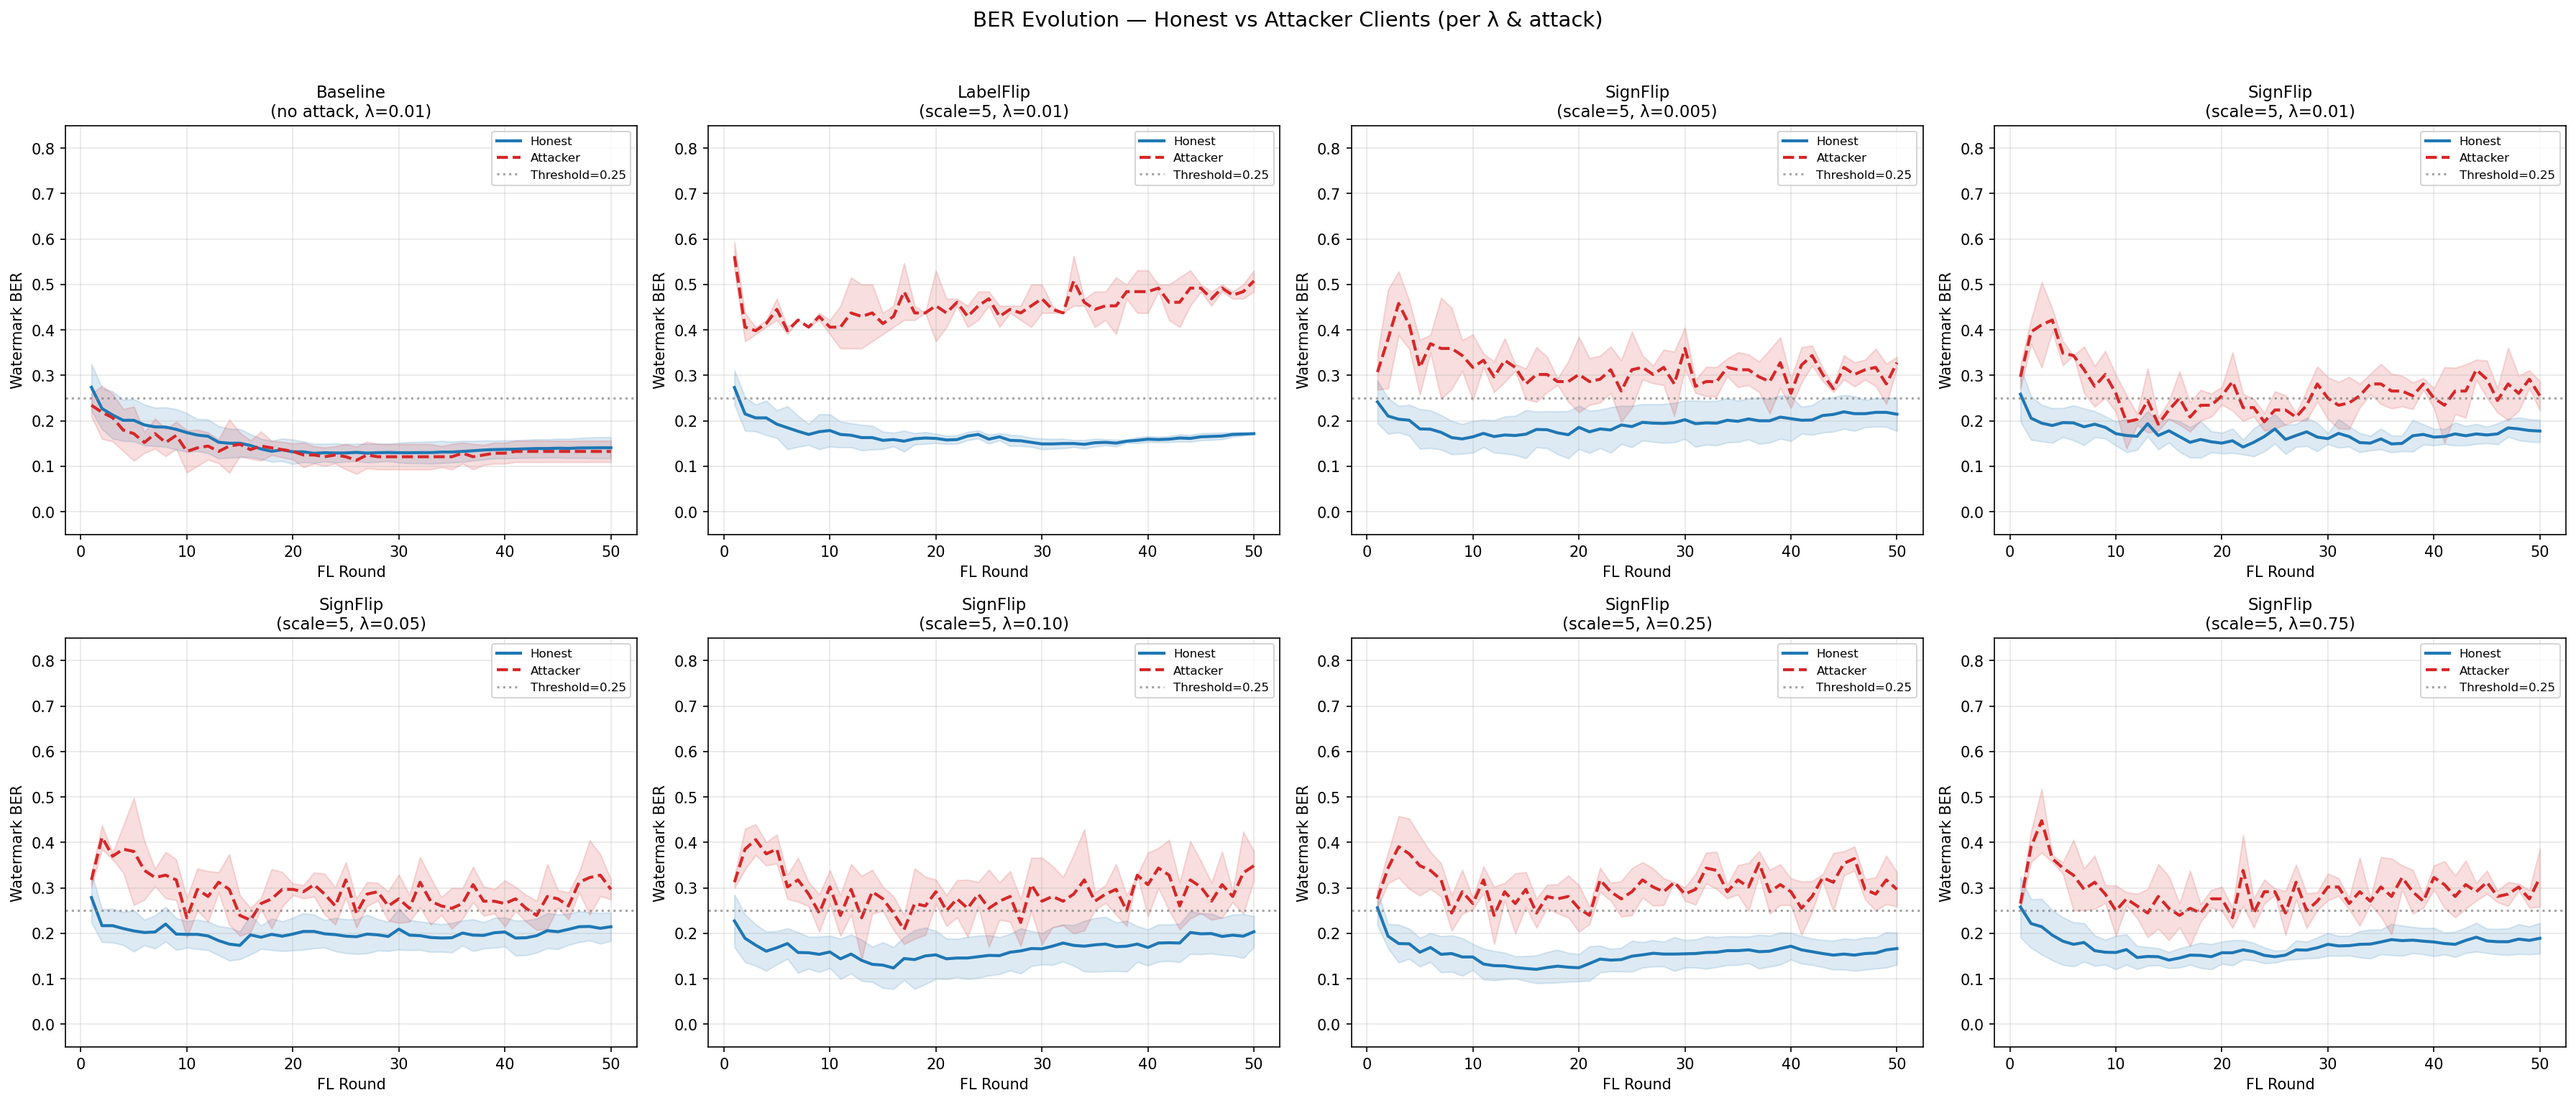
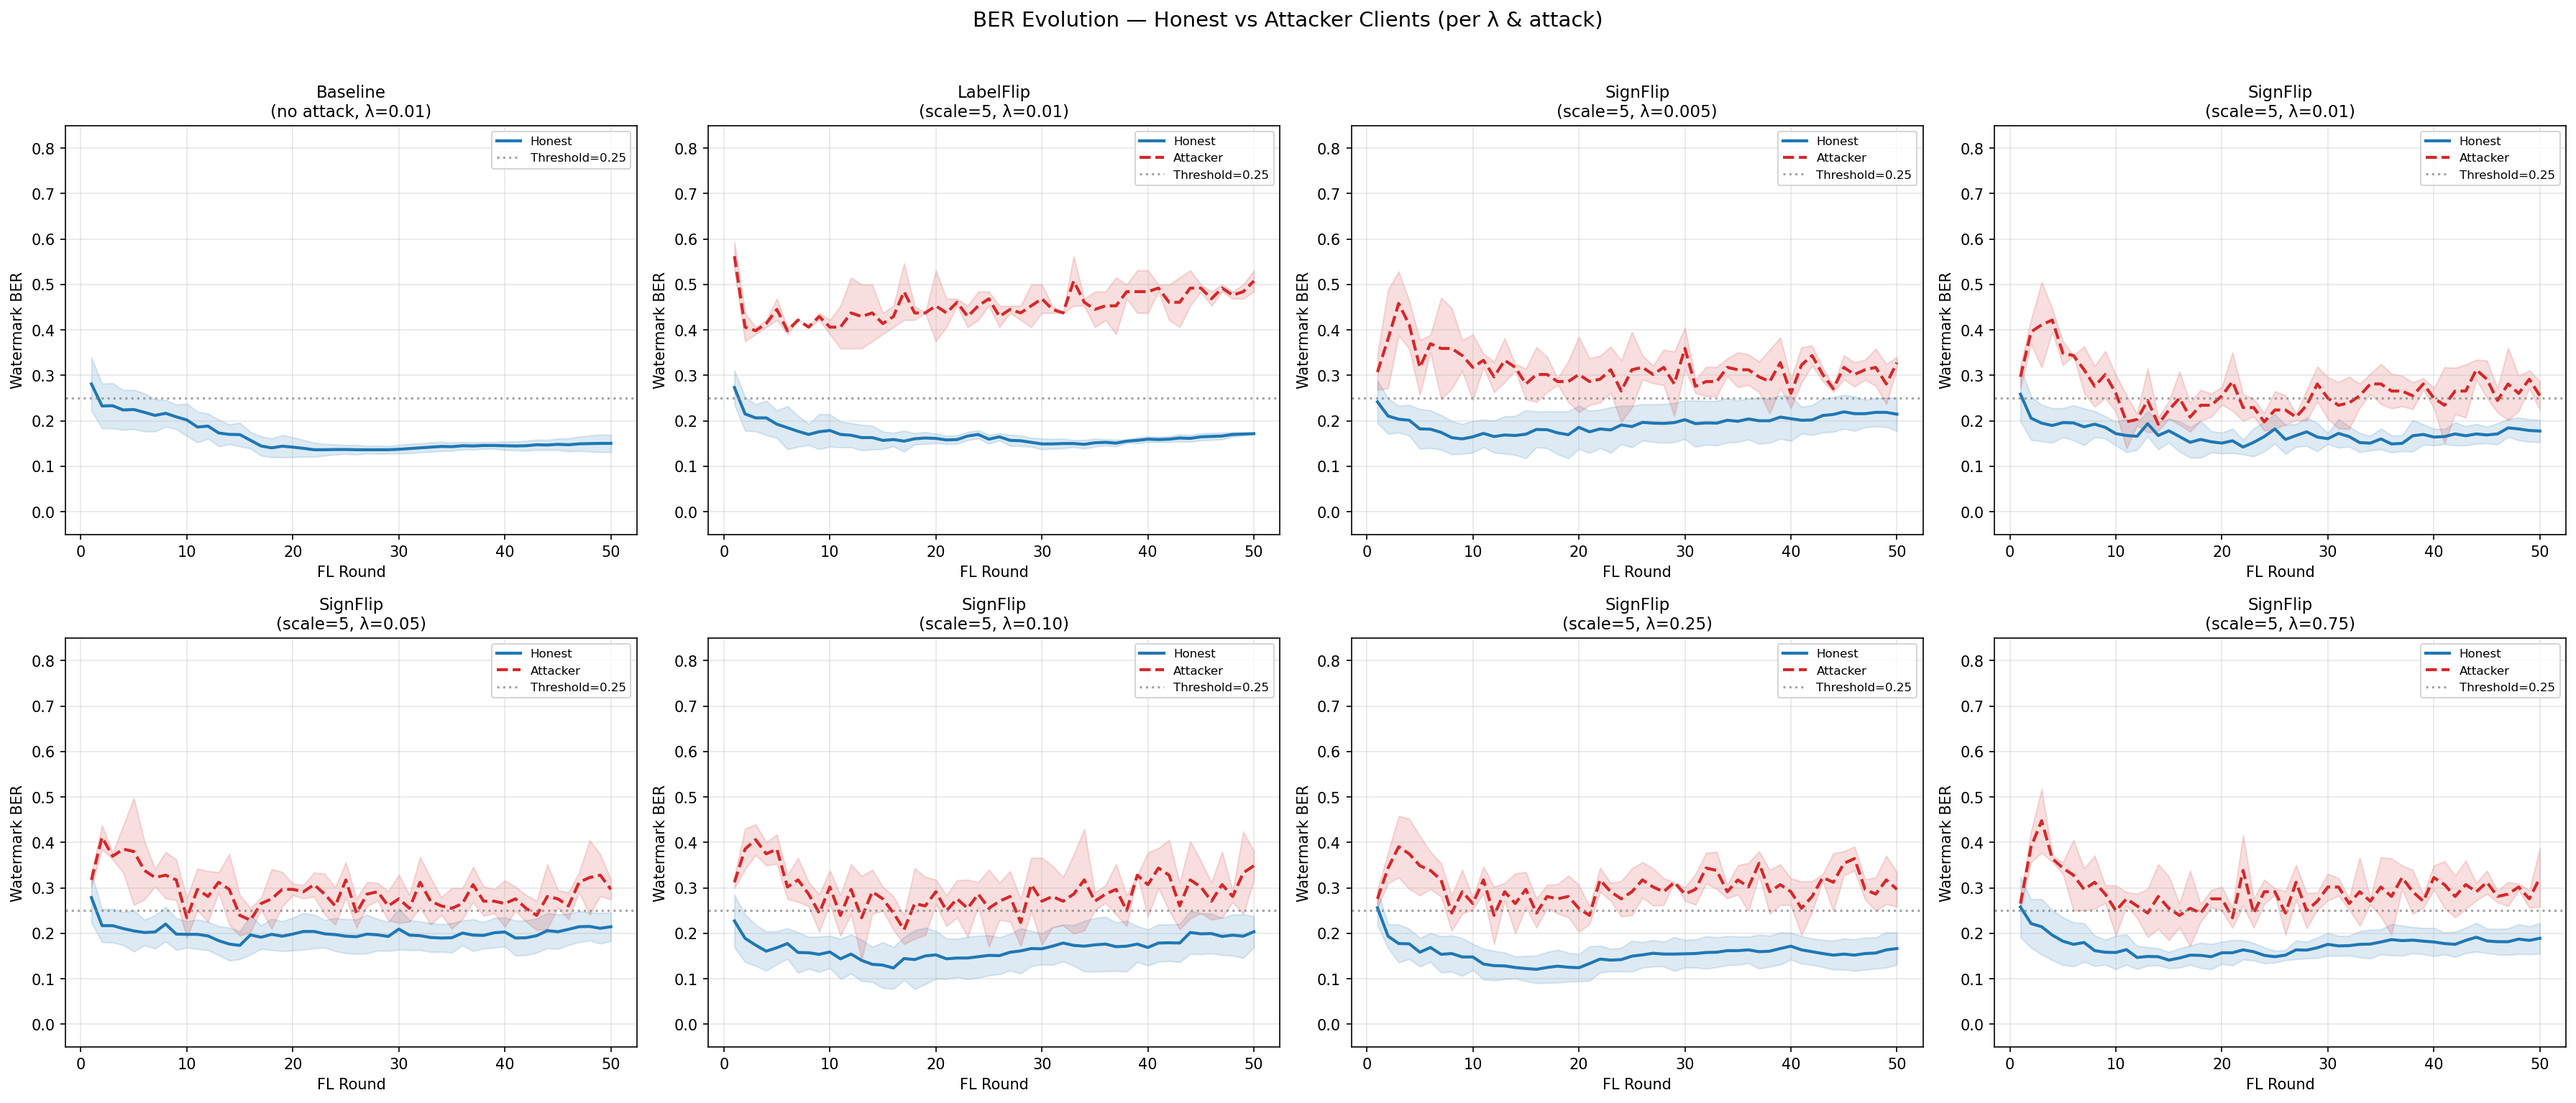
Fix baseline BER plot: show honest line when no attackers present

Changed region(s): [[0.031, 0.3368, 0.2478, 0.4287], [0.1859, 0.1225, 0.2478, 0.1837]]

diff --git a/utility scripts/plot_evaluation.py b/utility scripts/plot_evaluation.py
@@ -24,14 +24,14 @@ PLOTS_DIR.mkdir(parents=True, exist_ok=True)
 
 # Match the 8 configs from run_evaluation.sh + run_lambda_extra.sh
 CONFIGS = [
-    {"label": "Baseline\n(no attack, λ=0.01)", "attack": "none", "lam": 0.01},
-    {"label": "LabelFlip\n(scale=5, λ=0.01)", "attack": "label_flip", "lam": 0.01},
-    {"label": "SignFlip\n(scale=5, λ=0.005)", "attack": "sign_flip", "lam": 0.005},
-    {"label": "SignFlip\n(scale=5, λ=0.01)", "attack": "sign_flip", "lam": 0.01},
-    {"label": "SignFlip\n(scale=5, λ=0.05)", "attack": "sign_flip", "lam": 0.05},
-    {"label": "SignFlip\n(scale=5, λ=0.10)", "attack": "sign_flip", "lam": 0.10},
-    {"label": "SignFlip\n(scale=5, λ=0.25)", "attack": "sign_flip", "lam": 0.25},
-    {"label": "SignFlip\n(scale=5, λ=0.75)", "attack": "sign_flip", "lam": 0.75},
+    {"label": "Baseline\n(no attack, λ=0.01)", "attack": "none", "lam": 0.01, "attacker_frac": 0.0},
+    {"label": "LabelFlip\n(scale=5, λ=0.01)", "attack": "label_flip", "lam": 0.01, "attacker_frac": 0.1},
+    {"label": "SignFlip\n(scale=5, λ=0.005)", "attack": "sign_flip", "lam": 0.005, "attacker_frac": 0.1},
+    {"label": "SignFlip\n(scale=5, λ=0.01)", "attack": "sign_flip", "lam": 0.01, "attacker_frac": 0.1},
+    {"label": "SignFlip\n(scale=5, λ=0.05)", "attack": "sign_flip", "lam": 0.05, "attacker_frac": 0.1},
+    {"label": "SignFlip\n(scale=5, λ=0.10)", "attack": "sign_flip", "lam": 0.10, "attacker_frac": 0.1},
+    {"label": "SignFlip\n(scale=5, λ=0.25)", "attack": "sign_flip", "lam": 0.25, "attacker_frac": 0.1},
+    {"label": "SignFlip\n(scale=5, λ=0.75)", "attack": "sign_flip", "lam": 0.75, "attacker_frac": 0.1},
 ]
 
 
@@ -49,13 +49,18 @@ def load_registry():
     return runs
 
 
-def find_matching_runs(runs, attack_type, lam):
-    """Find runs matching attack type and lambda."""
-    return [r for r in runs
-            if r.get("attacker-type") == attack_type
-            and abs(r.get("watermark-lambda", 0) - lam) < 1e-9
-            and r.get("server-private-samples") == 5000
-            and r.get("pretrain-epochs") == 30]
+def find_matching_runs(runs, attack_type, lam, attacker_frac=0.1):
+    """Find up to 3 runs matching attack type, lambda, and attacker fraction."""
+    matched = [r for r in runs
+               if r.get("attacker-type") == attack_type
+               and abs(r.get("watermark-lambda", 0) - lam) < 1e-9
+               and r.get("server-private-samples") == 5000
+               and r.get("pretrain-epochs") == 30
+               and abs(r.get("attacker-fraction", 0) - attacker_frac) < 1e-9
+               and Path(RESULTS_DIR / f"run_{r['run_id']}_train.csv").exists()]
+    # Take first 3 runs (oldest by timestamp)
+    matched.sort(key=lambda r: r.get("timestamp", ""))
+    return matched[:3]
 
 
 def load_train_data(run_id):
@@ -156,7 +161,8 @@ def main():
         label = cfg["label"]
         attack = cfg["attack"]
         lam = cfg["lam"]
-        matches = find_matching_runs(runs, attack, lam)
+        attacker_frac = cfg.get("attacker_frac", 0.1)
+        matches = find_matching_runs(runs, attack, lam, attacker_frac)
         print(f"\n  [{idx+1}] {attack} λ={lam}: {len(matches)} runs found")
 
         # Collect honest and attacker BER per round across reps
@@ -190,22 +196,24 @@ def main():
 
         # --- BER evolution plot ---
         ax = axes_ber[idx]
-        common_rounds = sorted(set(honest_ber_by_round.keys()) & set(attacker_ber_by_round.keys()))
+        honest_rounds = sorted(honest_ber_by_round.keys())
 
-        if common_rounds:
-            h_means = [np.mean(honest_ber_by_round[r]) for r in common_rounds]
-            h_stds = [np.std(honest_ber_by_round[r]) for r in common_rounds]
-            a_means = [np.mean(attacker_ber_by_round[r]) for r in common_rounds]
-            a_stds = [np.std(attacker_ber_by_round[r]) for r in common_rounds]
+        if honest_rounds:
+            h_means = [np.mean(honest_ber_by_round[r]) for r in honest_rounds]
+            h_stds = [np.std(honest_ber_by_round[r]) for r in honest_rounds]
 
-            ax.plot(common_rounds, h_means, "C0-", linewidth=2, label="Honest")
-            ax.fill_between(common_rounds,
+            ax.plot(honest_rounds, h_means, "C0-", linewidth=2, label="Honest")
+            ax.fill_between(honest_rounds,
                             [m - s for m, s in zip(h_means, h_stds)],
                             [m + s for m, s in zip(h_means, h_stds)],
                             color="C0", alpha=0.15)
-            if any(a_means):  # only plot attacker if present
-                ax.plot(common_rounds, a_means, "C3--", linewidth=2, label="Attacker")
-                ax.fill_between(common_rounds,
+
+            if attacker_ber_by_round:
+                common = sorted(set(honest_rounds) & set(attacker_ber_by_round.keys()))
+                a_means = [np.mean(attacker_ber_by_round[r]) for r in common]
+                a_stds = [np.std(attacker_ber_by_round[r]) for r in common]
+                ax.plot(common, a_means, "C3--", linewidth=2, label="Attacker")
+                ax.fill_between(common,
                                 [max(0, m - s) for m, s in zip(a_means, a_stds)],
                                 [m + s for m, s in zip(a_means, a_stds)],
                                 color="C3", alpha=0.15)
@@ -247,9 +255,10 @@ def main():
         # --- d' and AUC across all rounds ---
         all_honest_bers = []
         all_attacker_bers = []
-        for rnd in common_rounds:
+        for rnd in honest_rounds:
             all_honest_bers.extend(honest_ber_by_round[rnd])
-            all_attacker_bers.extend(attacker_ber_by_round[rnd])
+            if rnd in attacker_ber_by_round:
+                all_attacker_bers.extend(attacker_ber_by_round[rnd])
 
         dprime = compute_dprime(all_honest_bers, all_attacker_bers)
         auc = compute_auc(all_honest_bers, all_attacker_bers)
